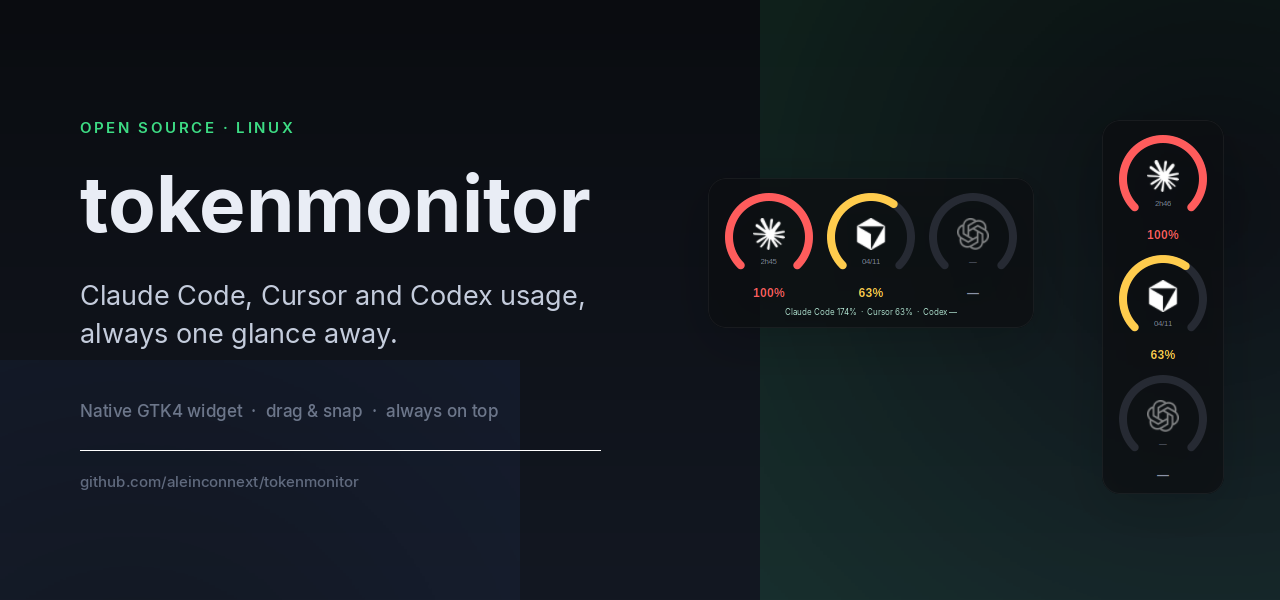
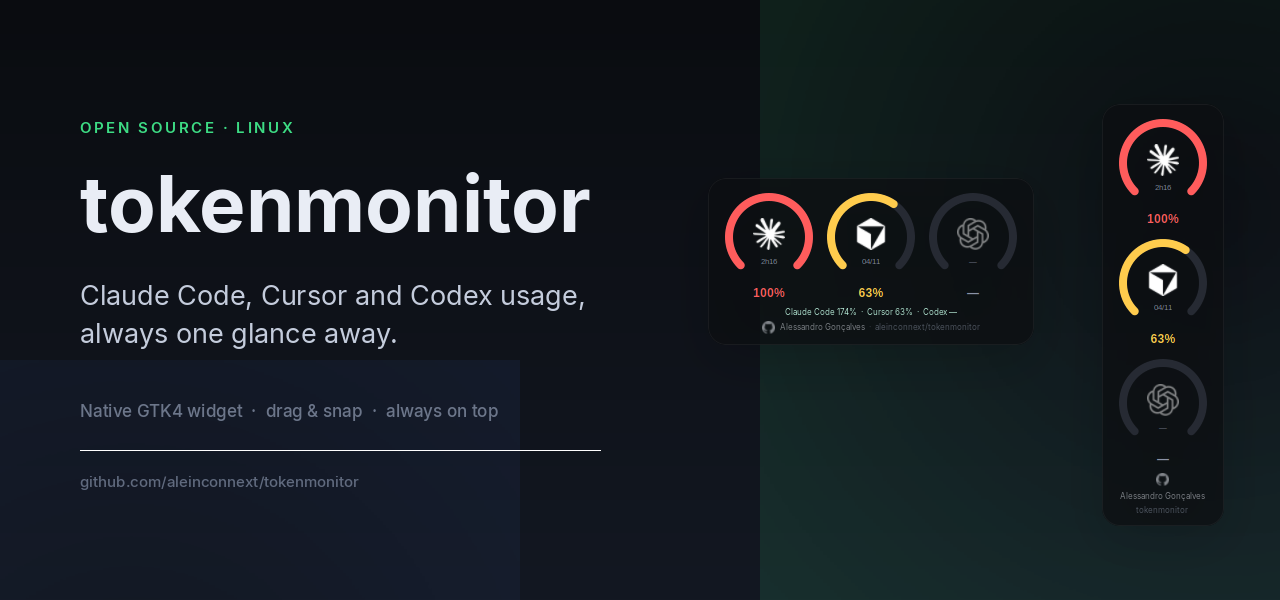
feat: add a discreet author signature to the widget
A small GitHub mark, the author's name and the repository link now sit at the bottom of the card in both orientations. Hovering brightens the credit and shows a tooltip with role and full URL; clicking opens the repository. The card grows to 342x183 (horizontal) and 138x438 (vertical), and the README badge glyph is now white.

Changed region(s): [[0.875, 0.18, 0.9688, 0.75], [0.5938, 0.54, 0.75, 0.57], [0.875, 0.81, 0.9375, 0.84]]

diff --git a/src/tokenmon.py b/src/tokenmon.py
@@ -26,10 +26,15 @@ import gi
 gi.require_version("Gtk", "4.0")
 gi.require_version("Gdk", "4.0")
 import cairo
-from gi.repository import Gdk, GLib, Gtk, Pango
+from gi.repository import Gdk, Gio, GLib, Gtk, Pango
 
 APP_ID = "io.github.tokenmonitor.TokenMonitor"
 TITLE = "Token Monitor"
+AUTHOR = "Alessandro Gonçalves"
+AUTHOR_ROLE = "Software Engineer"
+REPO_SLUG = "aleinconnext/tokenmonitor"
+REPO_NAME = "tokenmonitor"
+REPO_URL = f"https://github.com/{REPO_SLUG}"
 CTX_WINDOW = 200_000
 STATE_DIR = "~/.config/tokenmonitor"
 STATE_FILE = "~/.config/tokenmonitor/state.json"
@@ -45,8 +50,8 @@ RED = (1.000, 0.361, 0.361)
 CARD_ALPHA = 0.72
 MARGIN = 8
 SNAP = 40
-HORIZONTAL_SIZE = (342, 166)
-VERTICAL_SIZE = (138, 390)
+HORIZONTAL_SIZE = (342, 183)
+VERTICAL_SIZE = (138, 438)
 GAUGE_SIZE = 92
 GAUGE_GAP = 10
 
@@ -63,6 +68,9 @@ ICONS_B64 = {
     ),
 }
 
+# Marca do GitHub (branco, 96x96) usada na assinatura do card.
[1 lines of base64/hex data omitted]
+
 CSS = f"""
 window, window.background {{ background: transparent; }}
 .tokenmon-card {{
@@ -74,6 +82,13 @@ window, window.background {{ background: transparent; }}
 .menu-title {{ font-size: 9px; color: #6f7789; padding: 4px 8px 0 8px; }}
 .menu-btn {{ font-size: 11px; color: #e8ecf3; }}
 .menu-btn:hover {{ background-color: rgba(255,255,255,0.08); }}
+.tokenmon-credit {{ background: none; background-image: none; border: none; box-shadow: none; padding: 0; min-height: 0; min-width: 0; }}
+.tokenmon-credit:hover {{ background: none; }}
+.tokenmon-credit label {{ color: rgba(233, 237, 245, 0.58); font-size: 8px; }}
+.tokenmon-credit .credit-sep {{ color: rgba(150, 160, 180, 0.35); }}
+.tokenmon-credit .credit-repo {{ color: rgba(150, 160, 180, 0.55); }}
+.tokenmon-credit:hover label {{ color: rgba(233, 237, 245, 0.90); }}
+.tokenmon-credit:hover .credit-repo {{ color: rgba(61, 220, 132, 0.90); }}
 """
 
 ANCHORS = {
@@ -673,6 +688,9 @@ class App(Gtk.Application):
         self.status.set_margin_top(6)
         card.append(self.status)
 
+        self.credit = self._build_credit()
+        card.append(self.credit)
+
         outer.append(card)
         self.outer = outer
         self.card = card
@@ -903,6 +921,7 @@ class App(Gtk.Application):
             self.row.set_orientation(Gtk.Orientation.HORIZONTAL)
             self.status.set_visible(True)
             size = HORIZONTAL_SIZE
+        self._style_credit(vertical)
         self.row.set_halign(Gtk.Align.CENTER)
         self.row.set_valign(Gtk.Align.CENTER)
         self.win.set_default_size(*size)
@@ -1081,6 +1100,78 @@ class App(Gtk.Application):
     def _sync_above_label(self):
         on = self.state.get("above", True)
         self.btn_above.set_label(f"Sempre no topo: {'ligado' if on else 'desligado'}")
+
+    def _build_credit(self):
+        """Assinatura discreta: ícone do GitHub + autor + repositório."""
+        btn = Gtk.Button()
+        btn.add_css_class("tokenmon-credit")
+        btn.set_tooltip_markup(
+            f"<b>{AUTHOR}</b>\n{AUTHOR_ROLE}\n<small>github.com/{REPO_SLUG}</small>"
+        )
+        btn.connect("clicked", self._open_repo)
+        try:
+            btn.set_cursor(Gdk.Cursor.new_from_name("pointer", None))
+        except Exception:  # noqa: BLE001
+            pass
+
+        icon = Gtk.Image.new_from_paintable(
+            Gdk.Texture.new_from_bytes(GLib.Bytes.new(base64.b64decode(GITHUB_ICON_B64)))
+        )
+        icon.set_pixel_size(13)
+        icon.set_opacity(0.60)
+        icon.set_halign(Gtk.Align.CENTER)
+        icon.set_valign(Gtk.Align.CENTER)
+
+        text = Gtk.Box(orientation=Gtk.Orientation.HORIZONTAL, spacing=4)
+        text.set_valign(Gtk.Align.CENTER)
+        name = Gtk.Label(label=AUTHOR)
+        name.add_css_class("credit-name")
+        sep = Gtk.Label(label="·")
+        sep.add_css_class("credit-sep")
+        repo = Gtk.Label(label=REPO_SLUG)
+        repo.add_css_class("credit-repo")
+        for widget in (name, sep, repo):
+            widget.set_halign(Gtk.Align.CENTER)
+            text.append(widget)
+
+        box = Gtk.Box(orientation=Gtk.Orientation.HORIZONTAL, spacing=5)
+        box.set_halign(Gtk.Align.CENTER)
+        box.append(icon)
+        box.append(text)
+        btn.set_child(box)
+
+        self.credit = btn
+        self.credit_box = box
+        self.credit_icon = icon
+        self.credit_text = text
+        self.credit_sep = sep
+        self.credit_repo = repo
+        self._style_credit(bool(self.state.get("vertical")))
+        return btn
+
+    def _style_credit(self, vertical: bool):
+        if vertical:
+            self.credit_box.set_orientation(Gtk.Orientation.VERTICAL)
+            self.credit_text.set_orientation(Gtk.Orientation.VERTICAL)
+            self.credit_sep.set_visible(False)
+            self.credit_repo.set_text(REPO_NAME)
+            self.credit.set_margin_top(6)
+        else:
+            self.credit_box.set_orientation(Gtk.Orientation.HORIZONTAL)
+            self.credit_text.set_orientation(Gtk.Orientation.HORIZONTAL)
+            self.credit_sep.set_visible(True)
+            self.credit_repo.set_text(REPO_SLUG)
+            self.credit.set_margin_top(4)
+        self.credit.set_halign(Gtk.Align.CENTER)
+
+    def _open_repo(self, *_):
+        try:
+            Gio.AppInfo.launch_default_for_uri(REPO_URL, None)
+        except Exception:  # noqa: BLE001
+            try:
+                subprocess.Popen(["xdg-open", REPO_URL])
+            except OSError:
+                pass
 
     @staticmethod
     def _attrs(size=10, weight=Pango.Weight.NORMAL):

diff --git a/README.md b/README.md
@@ -38,7 +38,8 @@ The design is inspired by [codenotch](https://github.com/vinzdg/codenotch) for m
 - **Multi-monitor aware** — anchors to the monitor under the cursor and can be moved between displays from the menu.
 - **Persistent state** — anchor, monitor, orientation and free position survive restarts.
 - **Single instance** — launching it again simply raises the existing widget.
-- **Privacy first** — reads local files, sends no telemetry, and makes exactly one outbound request (Cursor's own usage endpoint, with the token already stored on your machine).
+- **Private by design** — reads local files, sends no telemetry, and makes exactly one outbound request (Cursor's own usage endpoint, with the token already stored on your machine).
+- **Discreet signature** — a small GitHub mark, the author's name and the repository path sit at the bottom of the card; hovering highlights it and a click opens the project on GitHub.
 
 ## Screenshots
 
@@ -68,7 +69,7 @@ The design is inspired by [codenotch](https://github.com/vinzdg/codenotch) for m
 Download the latest `.deb` from the [releases page](https://github.com/aleinconnext/tokenmonitor/releases/latest) and install it:
 
 ```bash
-sudo dpkg -i tokenmonitor_2.3.2_all.deb
+sudo dpkg -i tokenmonitor_2.3.3_all.deb
 sudo apt-get -f install   # resolves dependencies, if needed
 ```
 
@@ -109,8 +110,8 @@ make run
 
 - **Drag anywhere on the card.** Movement is handled directly through X11 so the release event is never swallowed by the compositor.
 - **Release near an edge** (within 40 px) to snap:
-  - left or right → vertical layout, 138 × 390;
-  - top or bottom → horizontal layout, 342 × 166;
+  - left or right → vertical layout, 138 × 438;
+  - top or bottom → horizontal layout, 342 × 183;
   - somewhere in the middle → free position.
 - **Right-click** for the menu: eight anchors, *Switch monitor*, *Always on top*, and shortcuts for the FreeLLMAPI dashboard and the `claude-monitor` TUI when those are available.
 

diff --git a/THIRD_PARTY.md b/THIRD_PARTY.md
@@ -12,6 +12,13 @@ OpenAI. All rights remain with their respective owners. They are used here
 solely to identify the products whose usage is being monitored; their presence
 does not imply endorsement or affiliation.
 
+## GitHub mark
+
+The GitHub mark embedded in the application credit and in `docs/author.png`
+comes from [Octicons](https://github.com/primer/octicons), released under the
+MIT License. It is a trademark of GitHub, Inc. and is used only to link to the
+project's repository.
+
 ## Design inspiration
 
 The notch-like presentation and the idea of ambient usage rings come from
